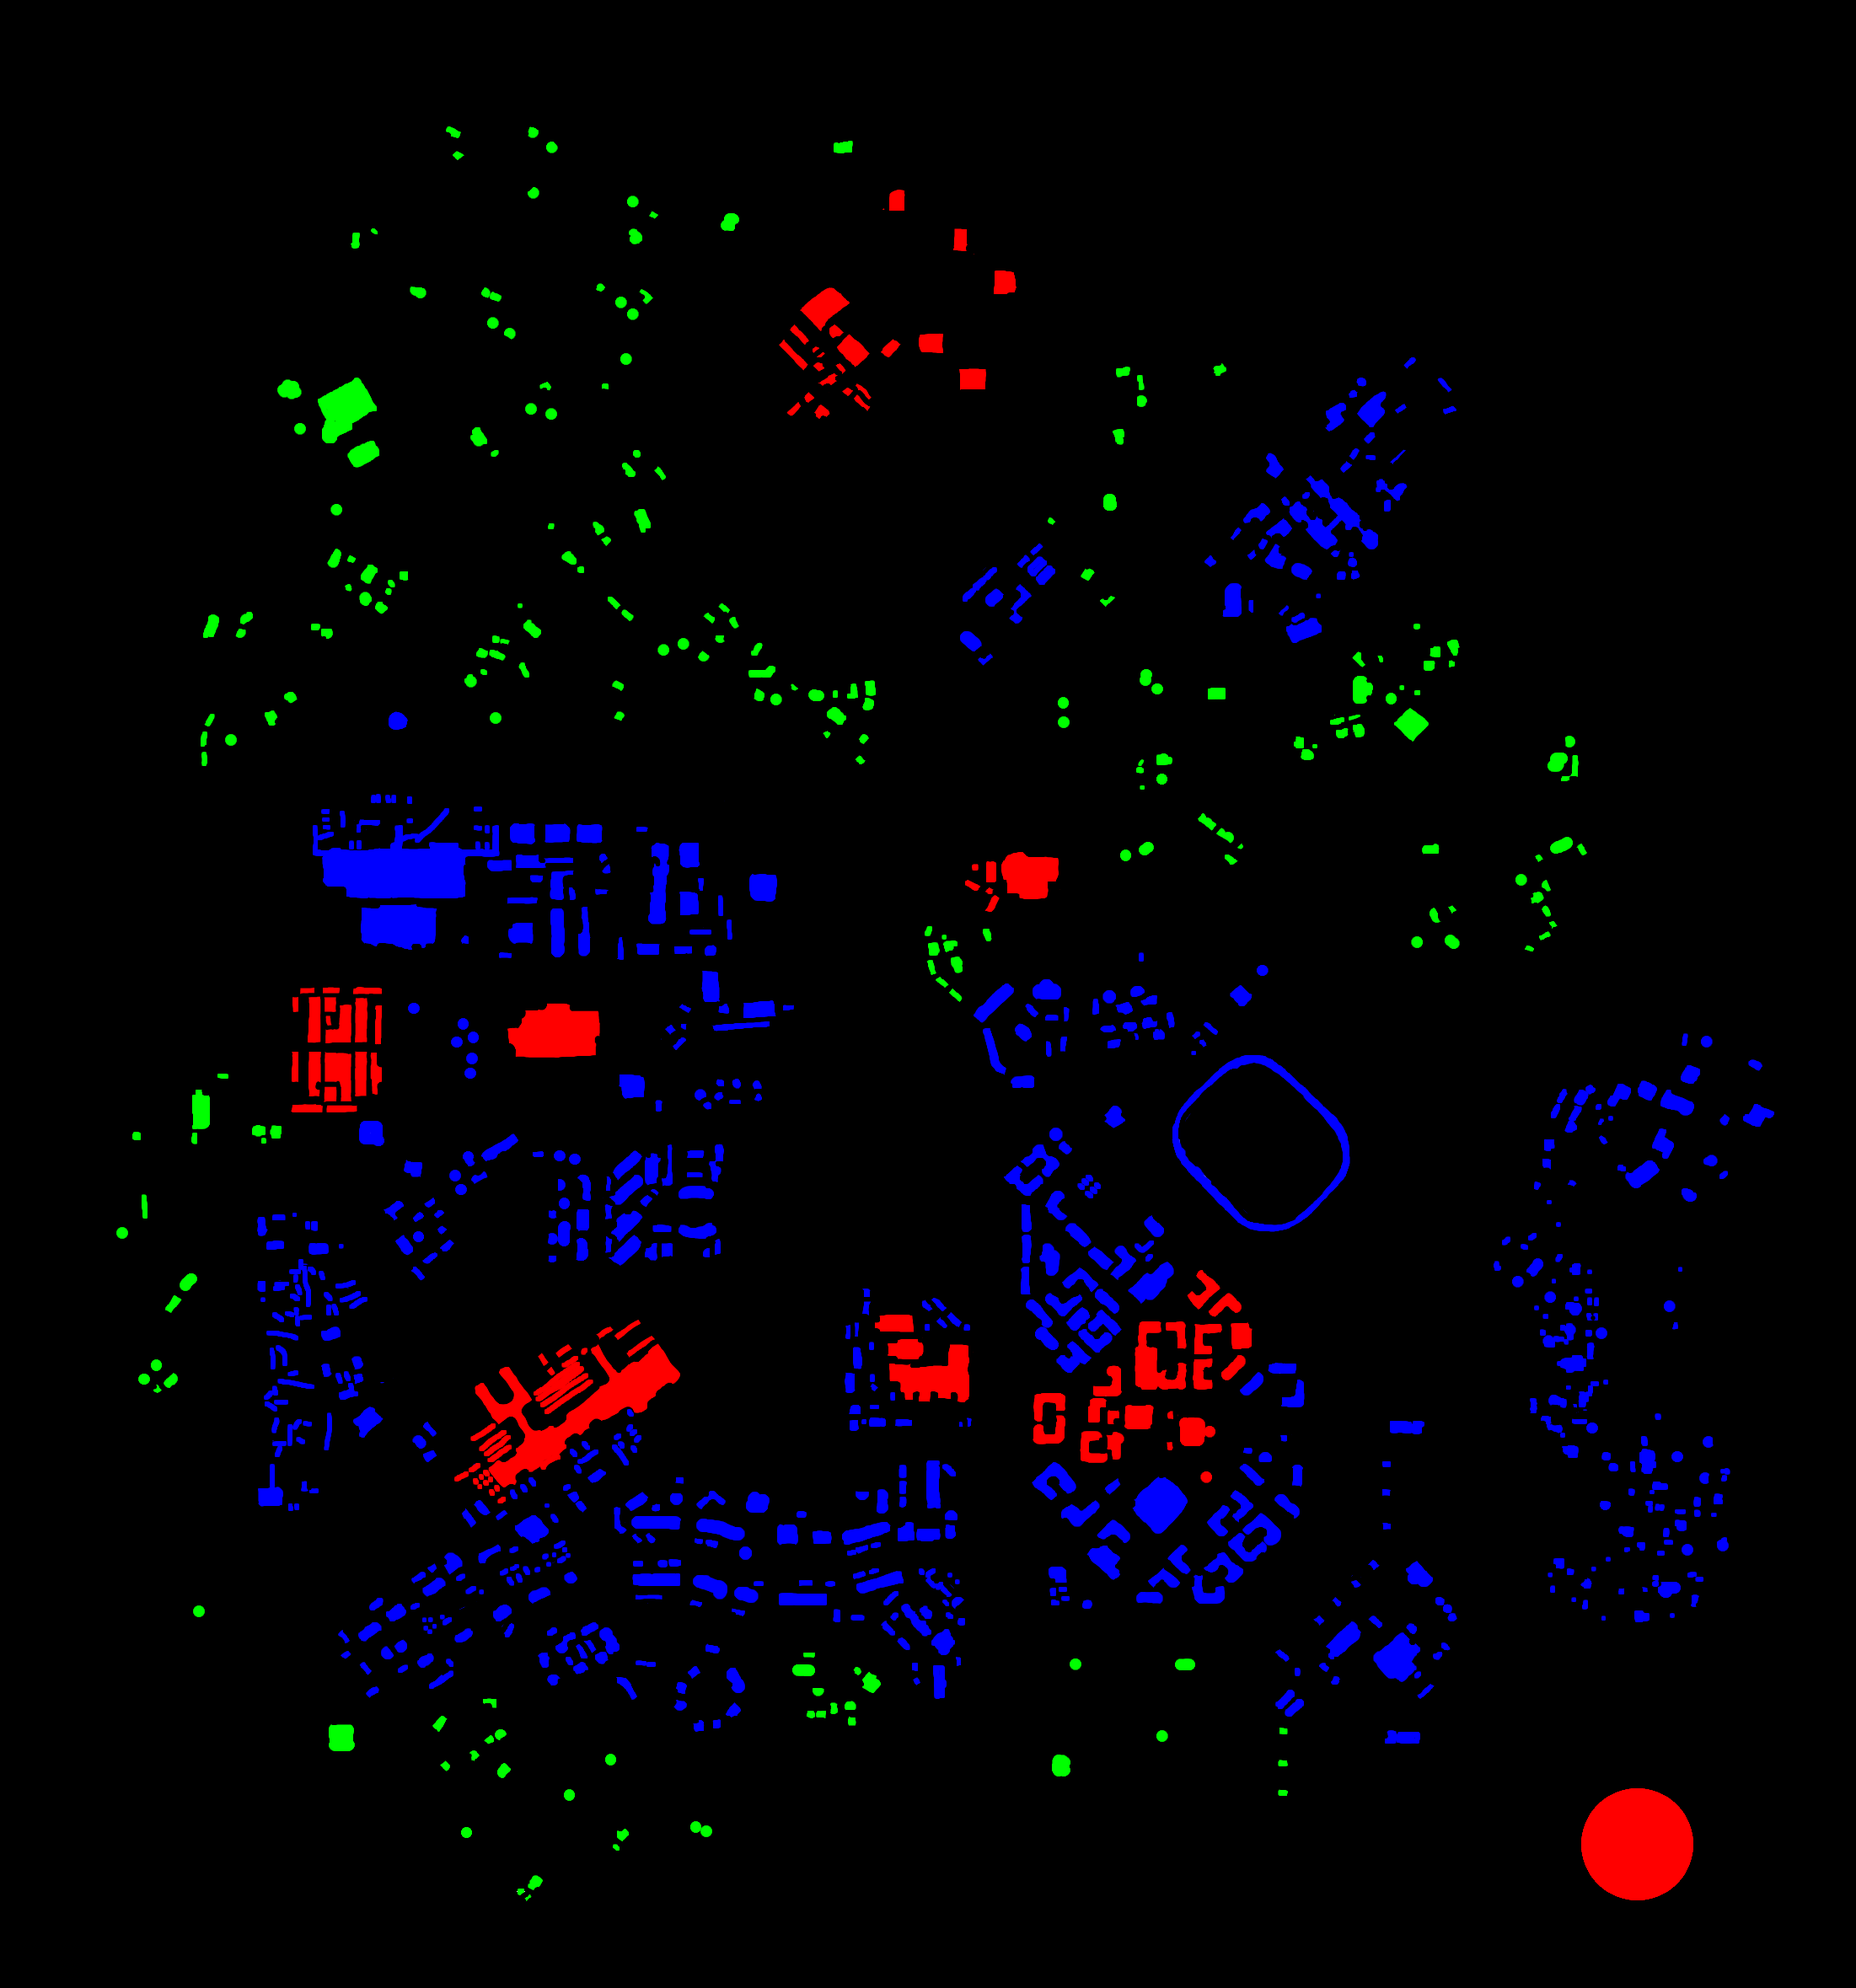
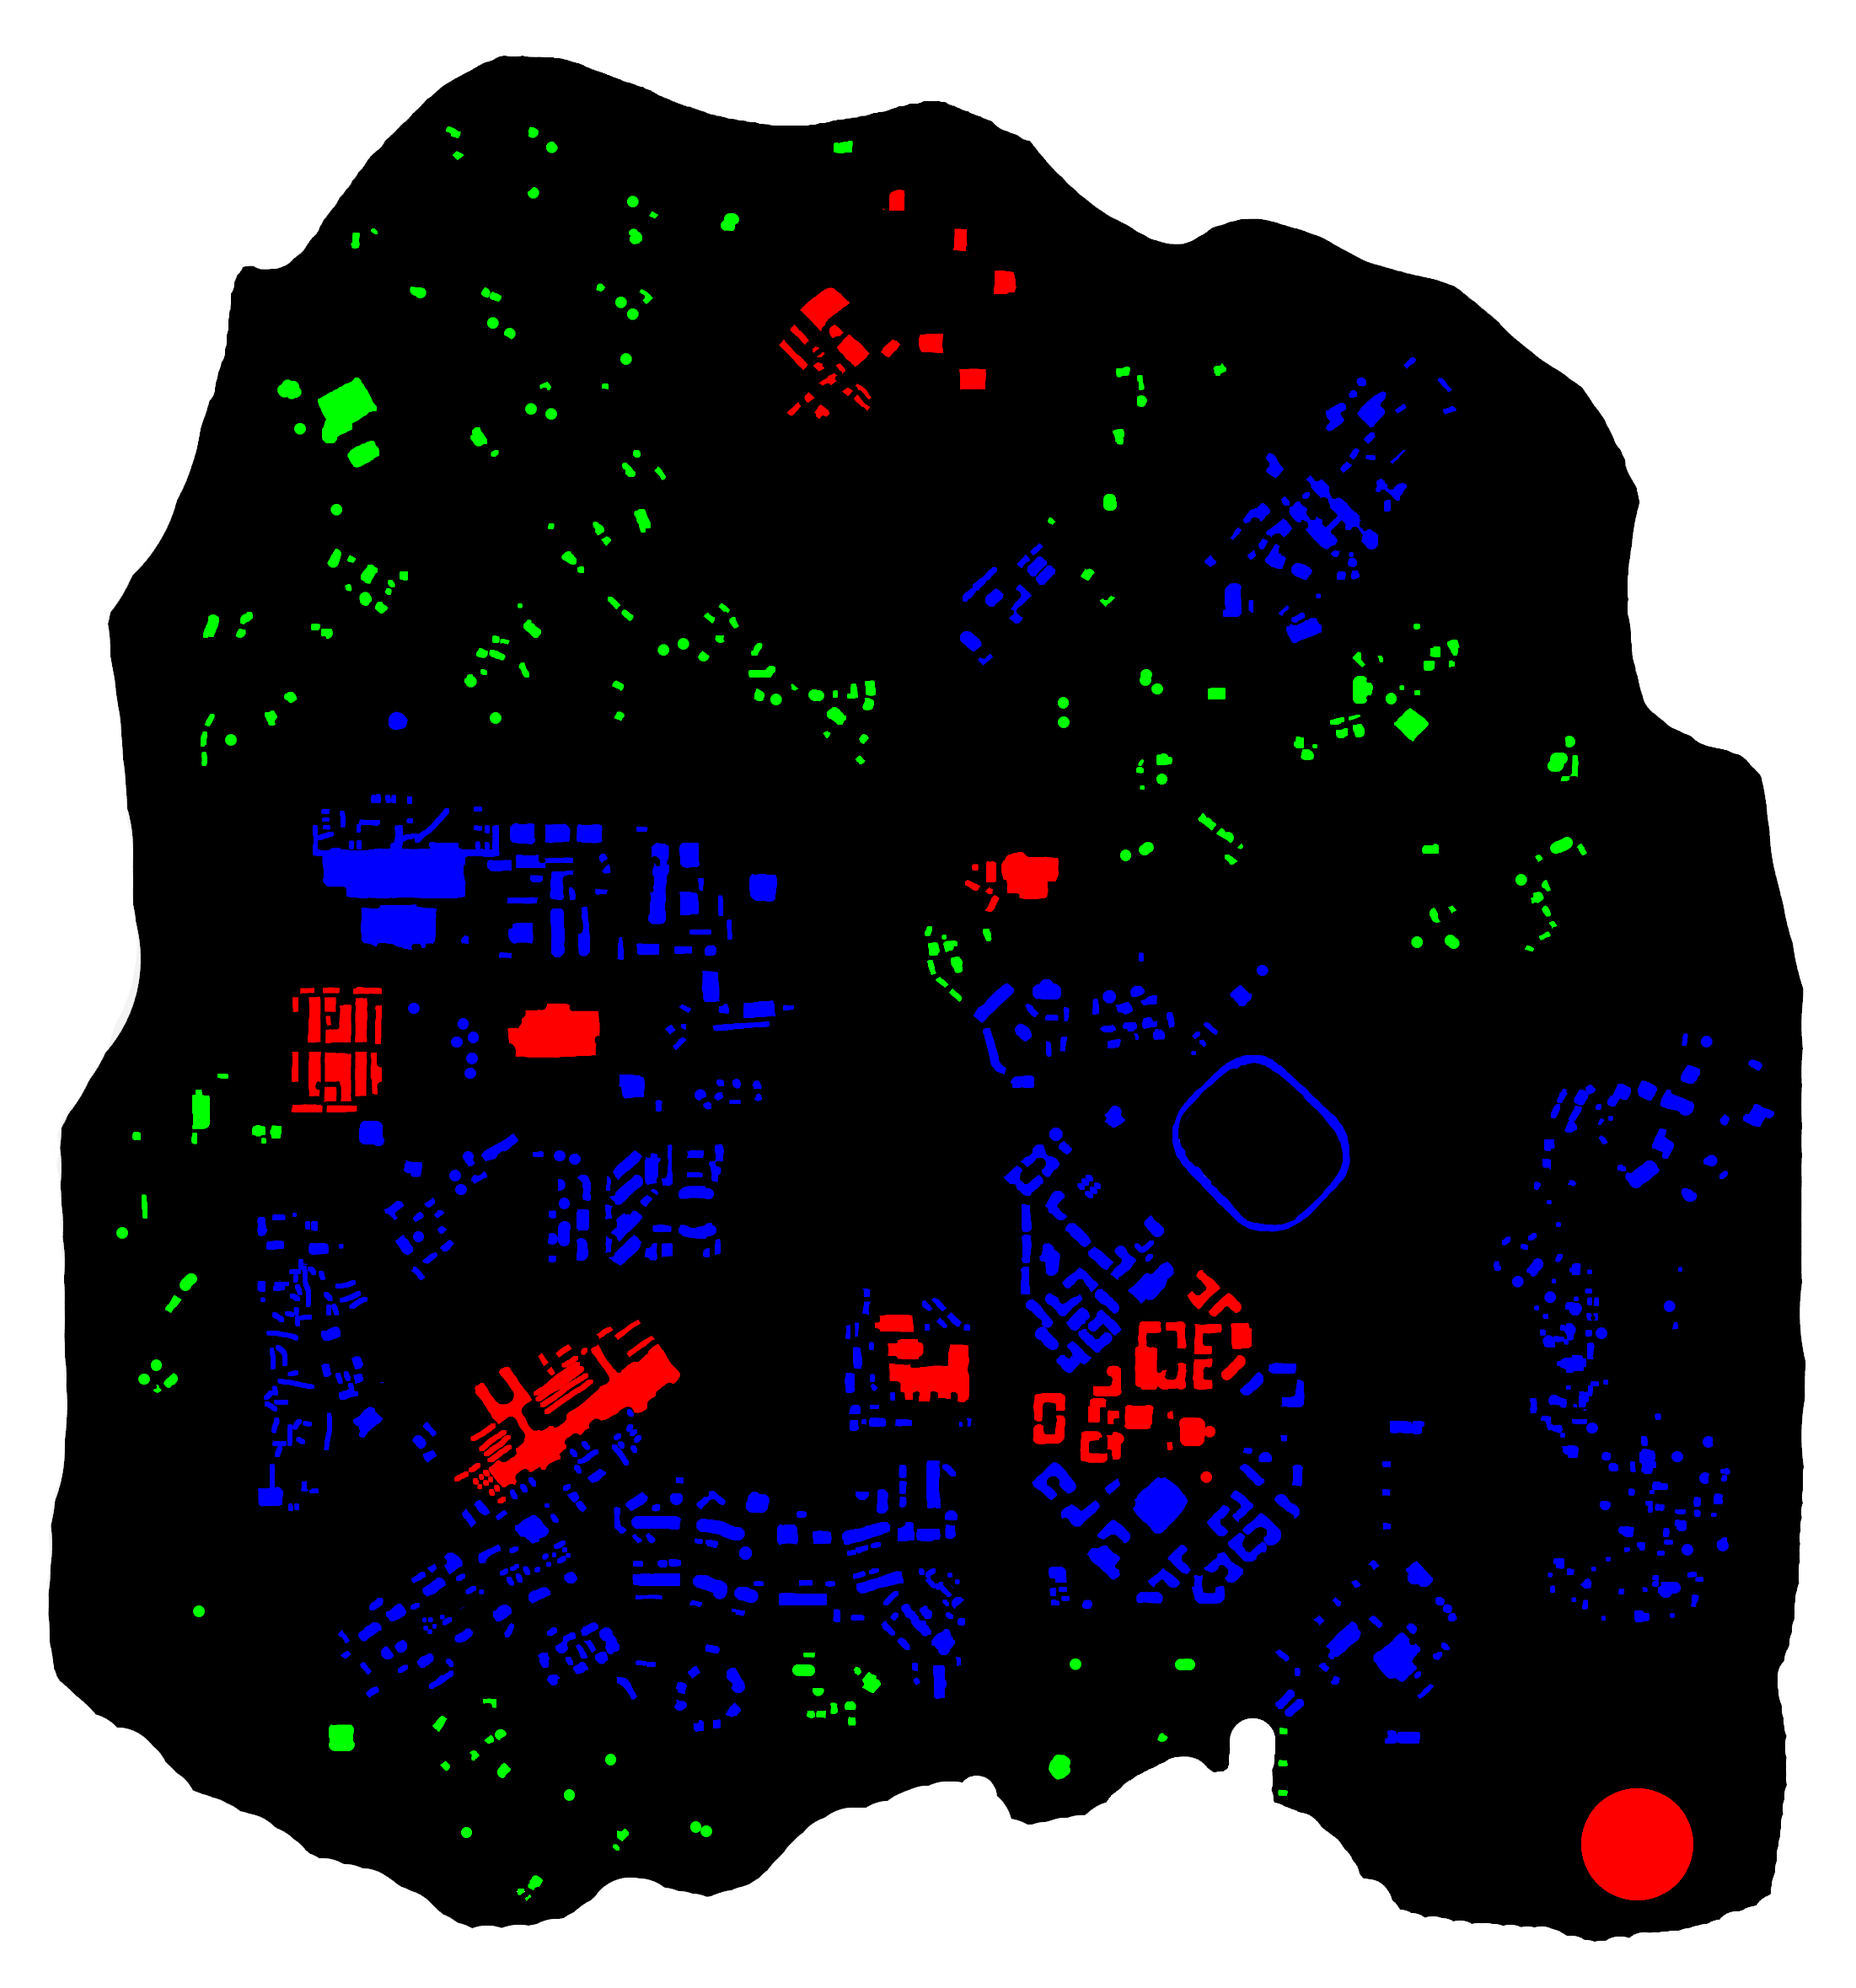
new mask with no borders

Changed region(s): [[0.0, 0.0, 1.0, 1.0]]

diff --git a/static/scripts/basic.js b/static/scripts/basic.js
@@ -41,7 +41,7 @@ function matchColorsAndSelection(data)
     var safestDropStatus = document.getElementById("safest_drop").checked;
 
     return data && (hotDropStatus && isRed(data) || avgDropStatus && isBlue(data) || 
-        safeDropStatus && isGreen(data) || safestDropStatus);
+        safeDropStatus && isGreen(data) || safestDropStatus && isBlack(data));
 }
 
 function isRed(data) {
@@ -54,6 +54,10 @@ function isGreen(data) {
 
 function isBlue(data) {
     return !data[0] && !data[1] && data[2]
+}
+
+function isBlack(data) {
+    return !data[0] && !data[1] && !data[2]
 }
 
 function getNextPixel(ctx, img) {
